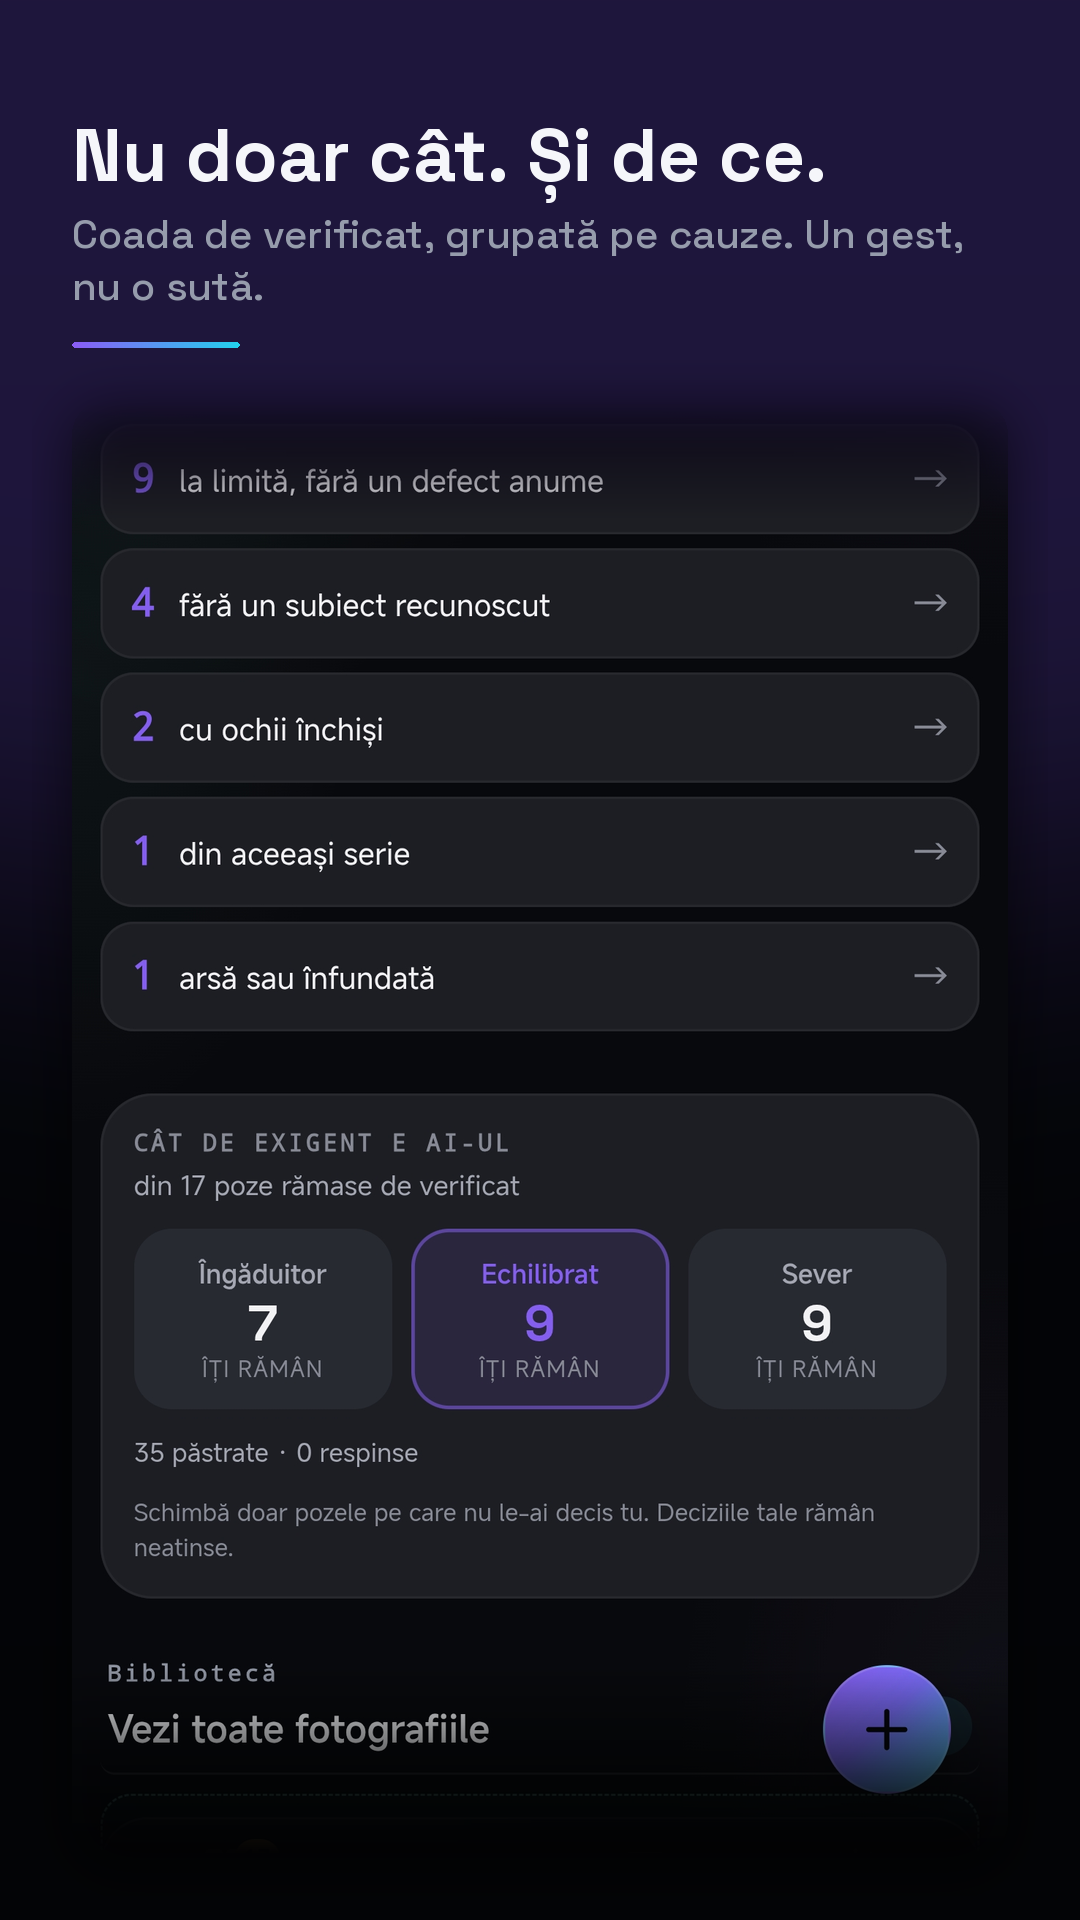
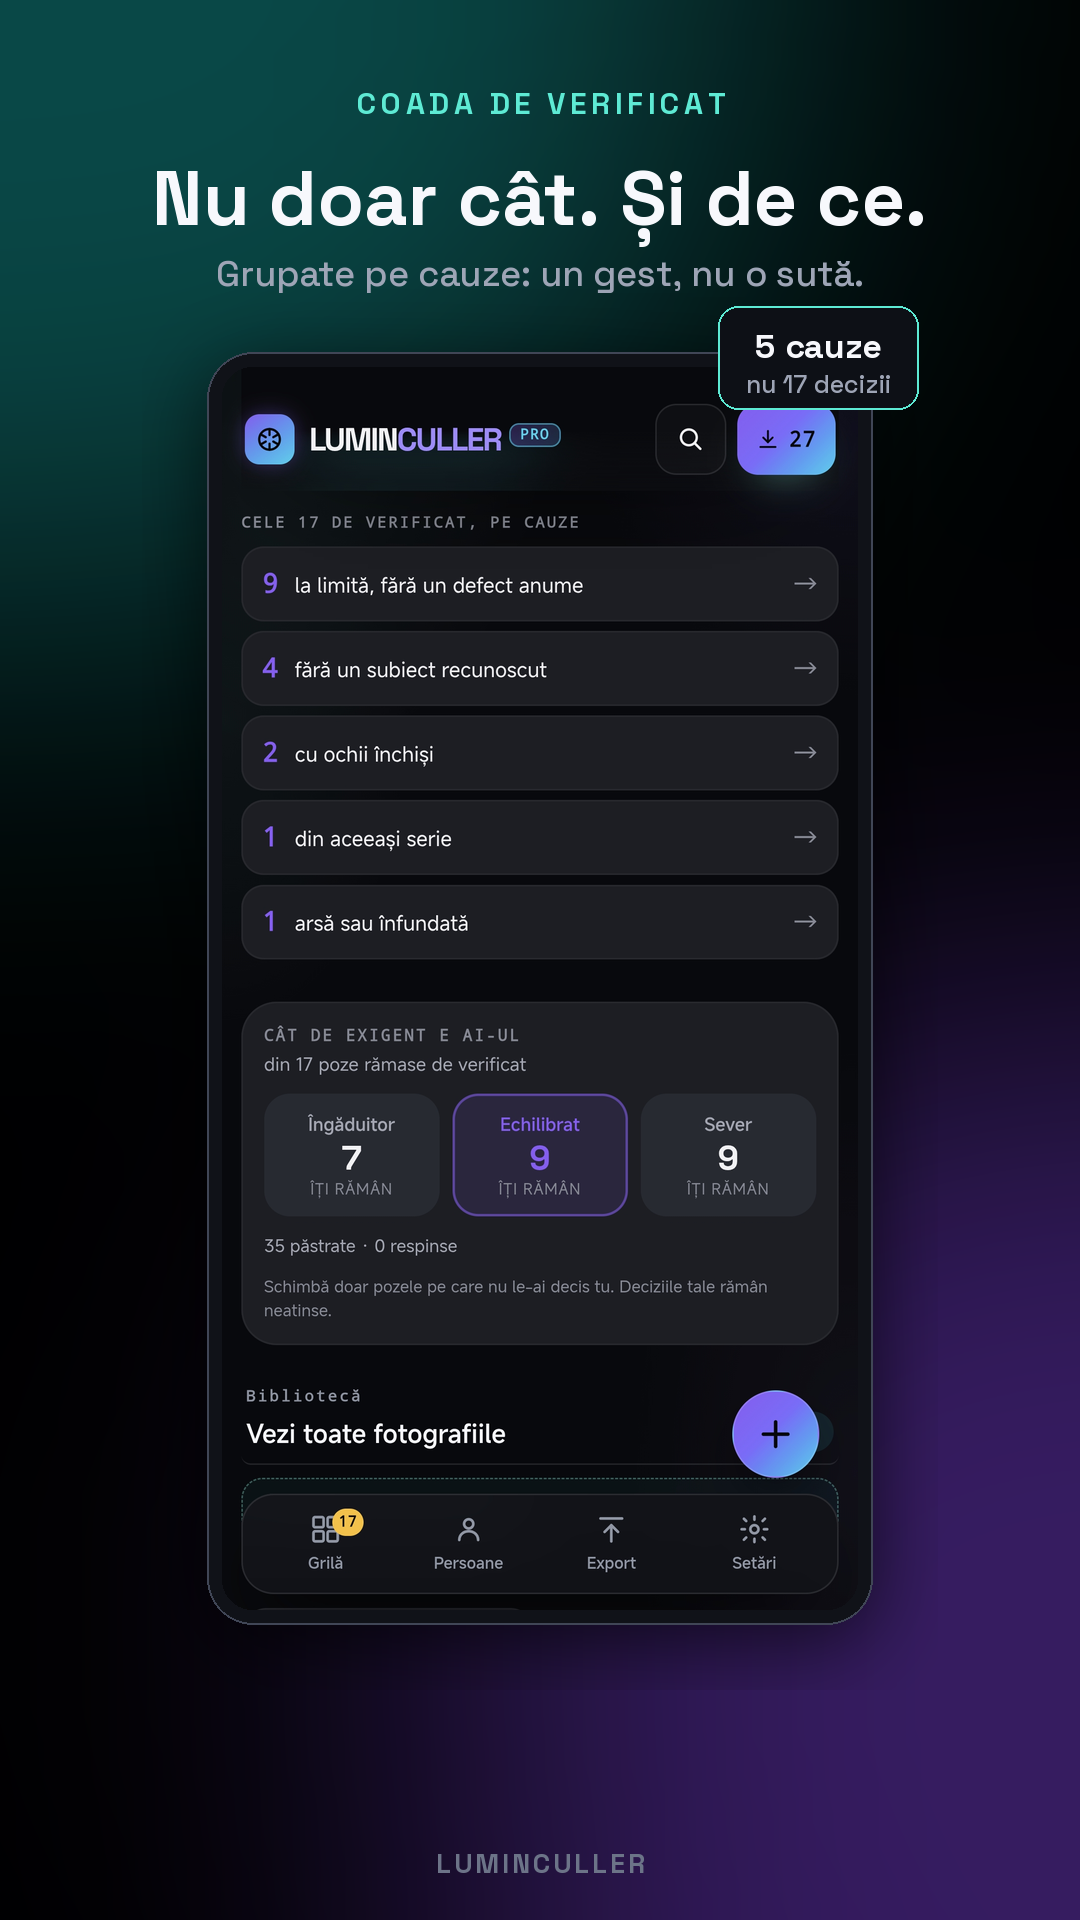
Capturi de magazin: ramă de telefon, nu o captură pusă pe fundal
Prima variantă punea captura tăiată direct pe fundal, cu titlul aliniat la
stânga. Comparată cu setul vechi, arăta clar mai slab — și diferența nu era
gustul, erau patru lucruri concrete:

1. RAMA DE TELEFON. Fără ea, imaginea citește ca o captură de ecran; cu ea,
   citește ca un produs. E cea mai mare diferență dintre cele două seturi.
2. CAPTURA ÎNTREAGĂ. Înălțimea ramei se calculează DIN raportul sursei, deci
   nu se mai taie nimic — și dispare nevoia de stingere a marginilor, care
   era o cârpeală pentru o problemă pe care n-ar fi trebuit s-o avem.
3. TEXT CENTRAT, cu o etichetă mică deasupra titlului: eticheta dă structura,
   titlul dă promisiunea, subtitlul dă dovada.
4. LUMINĂ COLORATĂ în fundal, nu un degrade plat — turcoaz sus-stânga,
   violet jos-dreapta, aceleași două culori ca degradeul aplicației.

Plus o insignă care iese peste ramă pe trei dintre ele, cu cifra care
contează ("12 poze decise în 83%", "0 upload"). Duce ochiul exact acolo.

Bara de navigare a Android-ului se detectează acum automat, nu se taie cu un
număr fix: înălțimea ei diferă de la captură la captură (gesturi vs. trei
butoane). Rămasă în ramă, apărea ca o dungă albă lată sub aplicație —
singurul lucru din toată imaginea care striga "captură de ecran", exact ce
încearcă rama să ascundă. Se caută de jos în sus prima linie care nu mai e
deschisă la culoare; aplicația e întunecată peste tot, deci granița e netă.

Claude-Session: https://claude.ai/code/session_0155ruC6WPAMZsMAjxbzwDqH

diff --git a/scripts/store-screenshots.py b/scripts/store-screenshots.py
@@ -1,60 +1,115 @@
 """
-Compune capturile pentru fisa Play Store.
+Compune capturile pentru fișa Play Store.
 
-Ce face si de ce:
- - taie bara de stare (ceas, baterie, WhatsApp) si bara de sistem de jos.
-   Cine deruleaza prin magazin nu trebuie sa vada ca aveai 33% baterie;
- - pune captura pe un fundal de brand, cu acelasi degrade ca aplicatia;
- - scrie DEASUPRA un titlu scurt. Titlul e ce retine omul — captura doar
-   dovedeste ca e adevarat. Doua secunde de derulat, nu un paragraf de citit;
- - foloseste fontul real al aplicatiei (Space Grotesk), nu unul generic.
+DE CE ARATA ASA, si nu ca o captura pusa pe un fundal. Prima varianta punea
+captura taiata direct pe fundal, cu titlul aliniat la stanga. Utilizatorul a
+comparat-o cu setul vechi si a avut dreptate: acela arata profesional, asta nu.
+Diferenta nu era gustul, erau patru lucruri concrete:
+
+ 1. RAMA DE TELEFON. Fara ea, imaginea citeste ca o captura de ecran. Cu ea,
+    citeste ca un PRODUS. E cea mai mare diferenta dintre cele doua seturi.
+ 2. CAPTURA INTREAGA. Inaltimea ramei se calculeaza DIN raportul sursei, deci
+    nu se mai taie nimic si nu mai e nevoie de nicio stingere a marginilor —
+    care era o carpeala pentru o problema pe care n-ar fi trebuit s-o avem.
+ 3. TEXT CENTRAT, cu o eticheta mica deasupra titlului. Eticheta da structura
+    ("CONFIDENTIALITATE"), titlul da promisiunea, subtitlul da dovada.
+ 4. LUMINA COLORATA in fundal, nu un degrade plat: turcoaz sus-stanga, violet
+    jos-dreapta. Aceleasi doua culori ca degradeul aplicatiei.
+
+Ruleaza:  python3 scripts/store-screenshots.py
+
+Fontul: Space Grotesk (acelasi ca aplicatia) nu exista ca TTF in proiect, doar
+ca subseturi woff2 pentru web — iar subsetul `latin` NU are ă/ș/ț, si
+`latin-ext` nu are â/î. Amandoua sunt necesare pentru romana, deci se
+instantiaza fiecare la o greutate fixa si se fuzioneaza (fuziunea directa a
+doua fonturi VARIABILE esueaza). Vezi `pregateste_fonturile()` mai jos.
+
+Sursele sunt capturi BRUTE de pe telefon. Doua reguli invatate pe pielea
+noastra: nicio captura cu adnotari desenate peste ea, si nicio captura cu
+persoane care n-au dat acordul sa apara intr-un magazin mondial.
 """
-from PIL import Image, ImageDraw, ImageFont, ImageFilter
 import os
+from PIL import Image, ImageDraw, ImageFont, ImageFilter
 
 W, H = 1080, 1920
-SRC = '/root/.claude/uploads/09c12659-4c3c-54cc-87dd-ec28ff8ac38b'
+SRC = os.environ.get('LUMIN_SHOTS_SRC', '/root/.claude/uploads/09c12659-4c3c-54cc-87dd-ec28ff8ac38b')
 OUT = 'store/screenshots-new'
-BOLD = '/tmp/fonts/SG-bold.ttf'
-MED = '/tmp/fonts/SG-med.ttf'
+FONTS = '/tmp/fonts'
 
-# Culorile aplicatiei (src/styles.css)
-BG_TOP = (11, 14, 22)
-BG_BOT = (7, 9, 15)
-ACCENT = (139, 92, 246)
-ACCENT2 = (34, 211, 238)
-TEXT = (245, 246, 250)
-SUB = (150, 156, 172)
+TEXT = (247, 248, 252)
+SUB = (158, 165, 182)
+TEAL = (94, 234, 212)
+VIOLET = (139, 92, 246)
 
-# Cat se taie din sursa (1280x2772): bara de stare sus, bara de sistem jos.
+# Bara de stare de sus are inaltime fixa pe acelasi telefon.
 CROP_TOP = 118
-CROP_BOT = 130
+
+
+def taie_bara_de_sistem(im):
+    """Taie bara de navigare a Android-ului din josul capturii.
+
+    Nu cu un numar fix: inaltimea ei difera de la captura la captura (gesturi
+    vs. trei butoane, iar unele ecrane o deseneaza peste continut). Ramasa in
+    rama de telefon, apare ca o dunga alba lata sub aplicatie — singurul lucru
+    din toata imaginea care striga "captura de ecran", exact ce incearca rama
+    sa ascunda.
+
+    Cautam de jos in sus prima linie care NU mai e deschisa la culoare.
+    Aplicatia e intunecata peste tot, deci granita e neta si nu are cum sa
+    prinda din greseala continut real.
+    """
+    mic = im.convert('L').resize((1, im.height))
+    px = mic.load()
+    y = im.height - 1
+    while y > im.height - 320 and px[0, y] > 110:
+        y -= 1
+    return im.crop((0, CROP_TOP, im.width, y + 1))
+
+
+def pregateste_fonturile():
+    """Space Grotesk cu diacritice romanesti — vezi antetul fisierului."""
+    bold, med = f'{FONTS}/SG-bold.ttf', f'{FONTS}/SG-med.ttf'
+    if os.path.exists(bold) and os.path.exists(med):
+        return bold, med
+    from fontTools.ttLib import TTFont
+    from fontTools.varLib import instancer
+    from fontTools.merge import Merger
+    os.makedirs(FONTS, exist_ok=True)
+    src = 'node_modules/@fontsource-variable/space-grotesk/files'
+    for name in ['latin', 'latin-ext']:
+        f = TTFont(f'{src}/space-grotesk-{name}-wght-normal.woff2')
+        f.flavor = None
+        f.save(f'{FONTS}/{name}.ttf')
+        for w, tag in [(700, 'bold'), (500, 'med')]:
+            instancer.instantiateVariableFont(TTFont(f'{FONTS}/{name}.ttf'), {'wght': w}) \
+                .save(f'{FONTS}/{name}-{tag}.ttf')
+    for tag in ['bold', 'med']:
+        Merger().merge([f'{FONTS}/latin-{tag}.ttf', f'{FONTS}/latin-ext-{tag}.ttf']) \
+            .save(f'{FONTS}/SG-{tag}.ttf')
+    return bold, med
 
 
 def fundal():
-    """Degrade vertical + o aura de accent sus, ca in aplicatie."""
-    bg = Image.new('RGB', (W, H))
-    d = ImageDraw.Draw(bg)
-    for y in range(H):
-        t = y / H
-        d.line([(0, y), (W, y)], fill=tuple(int(BG_TOP[i] + (BG_BOT[i] - BG_TOP[i]) * t) for i in range(3)))
-    aura = Image.new('RGB', (W, H), (0, 0, 0))
-    ad = ImageDraw.Draw(aura)
-    ad.ellipse([-W // 3, -H // 4, W + W // 3, H // 2], fill=(48, 30, 92))
-    aura = aura.filter(ImageFilter.GaussianBlur(160))
-    return Image.blend(bg, Image.blend(bg, aura, 0.55), 1.0)
+    """Doua lumini colorate peste un fond aproape negru — turcoaz sus-stanga,
+    violet jos-dreapta. Aceleasi doua culori ca degradeul aplicatiei."""
+    bg = Image.new('RGB', (W, H), (8, 10, 16))
+    lum = Image.new('RGB', (W, H), (0, 0, 0))
+    d = ImageDraw.Draw(lum)
+    d.ellipse([-460, -560, 760, 620], fill=(10, 78, 76))
+    d.ellipse([420, H - 900, W + 520, H + 260], fill=(58, 30, 104))
+    lum = lum.filter(ImageFilter.GaussianBlur(210))
+    return Image.blend(bg, lum, 0.92)
 
 
 def rotunjeste(im, r):
-    masca = Image.new('L', im.size, 0)
-    ImageDraw.Draw(masca).rounded_rectangle([0, 0, im.size[0] - 1, im.size[1] - 1], r, fill=255)
+    m = Image.new('L', im.size, 0)
+    ImageDraw.Draw(m).rounded_rectangle([0, 0, im.size[0] - 1, im.size[1] - 1], r, fill=255)
     out = im.convert('RGBA')
-    out.putalpha(masca)
+    out.putalpha(m)
     return out
 
 
 def randuri(draw, text, font, latime):
-    """Rupe titlul pe randuri care incap, fara sa taie cuvinte."""
     cuvinte, linii, curent = text.split(), [], ''
     for c in cuvinte:
         prob = (curent + ' ' + c).strip()
@@ -69,68 +124,81 @@ def randuri(draw, text, font, latime):
     return linii
 
 
-def compune(sursa, titlu, subtitlu, nume, offset_y=0):
+def centrat(d, y, text, font, fill, spatiere=0):
+    lat = d.textlength(text, font=font) + spatiere * max(0, len(text) - 1)
+    x = (W - lat) / 2
+    if spatiere:
+        for ch in text:
+            d.text((x, y), ch, font=font, fill=fill)
+            x += d.textlength(ch, font=font) + spatiere
+    else:
+        d.text((x, y), text, font=font, fill=fill)
+
+
+def compune(sursa, eticheta, titlu, subtitlu, nume, insigna=None):
+    bold, med = pregateste_fonturile()
     bg = fundal()
     d = ImageDraw.Draw(bg)
+    f_et = ImageFont.truetype(bold, 30)
+    f_ti = ImageFont.truetype(bold, 76)
+    f_su = ImageFont.truetype(med, 36)
 
-    f_titlu = ImageFont.truetype(BOLD, 74)
-    f_sub = ImageFont.truetype(MED, 40)
+    y = 84
+    centrat(d, y, eticheta.upper(), f_et, TEAL, spatiere=4.5)
+    y += 66
+    linii = randuri(d, titlu, f_ti, W - 130)
+    for linie in linii:
+        centrat(d, y, linie, f_ti, TEXT)
+        y += 86
+    y += 14
+    for linie in randuri(d, subtitlu, f_su, W - 150):
+        centrat(d, y, linie, f_su, SUB)
+        y += 48
 
-    marja = 72
-    y = 108
-    for linie in randuri(d, titlu, f_titlu, W - marja * 2):
-        d.text((marja, y), linie, font=f_titlu, fill=TEXT)
-        y += 88
-    if subtitlu:
-        y += 12
-        for linie in randuri(d, subtitlu, f_sub, W - marja * 2):
-            d.text((marja, y), linie, font=f_sub, fill=SUB)
-            y += 52
-
-    # Linie subtire de accent sub titlu — acelasi degrade ca butonul principal.
-    y += 30
-    bara = Image.new('RGB', (168, 6))
-    bd = ImageDraw.Draw(bara)
-    for x in range(168):
-        t = x / 168
-        bd.line([(x, 0), (x, 6)], fill=tuple(int(ACCENT[i] + (ACCENT2[i] - ACCENT[i]) * t) for i in range(3)))
-    bg.paste(rotunjeste(bara, 3), (marja, y), rotunjeste(bara, 3))
-    y += 58
-
-    # Captura, taiata de barele de sistem si scalata la latimea disponibila.
+    # ── Telefonul ───────────────────────────────────────────────────────────
     im = Image.open(os.path.join(SRC, sursa)).convert('RGB')
-    im = im.crop((0, CROP_TOP, im.width, im.height - CROP_BOT))
-    lat = W - marja * 2
-    im = im.resize((lat, int(im.height * lat / im.width)), Image.LANCZOS)
-    disp = H - y - 64
-    if im.height > disp:
-        im = im.crop((0, offset_y, im.width, min(im.height, offset_y + disp)))
+    im = taie_bara_de_sistem(im)
 
-    # MARGINEA DE JOS SE STINGE in fundal. Captura e mai inalta decat spatiul
-    # ramas, deci trebuie taiata undeva — iar o taietura neta prin bara de
-    # navigare arata ca o eroare de randare, nu ca un cadru. Stinsa, citeste ca
-    # "ecranul continua", ceea ce si e adevarat.
-    card = rotunjeste(im, 34)
-    alfa = card.split()[3]
-    stins = Image.new('L', card.size, 255)
-    sd = ImageDraw.Draw(stins)
-    # SUS se stinge si el, mai scurt. Captura e taiata la ambele capete, iar o
-    # taietura neta prin antet arata exact ca o eroare de randare — raportat cu
-    # o captura, cu fasia de antet incercuita. Stinsa, marginea citeste ca
-    # "ecranul continua", ceea ce si e adevarat.
-    sus = 120
-    for i in range(sus):
-        sd.line([(0, i), (card.width, i)], fill=int(255 * (i / sus) ** 1.2))
-    inaltime_stins = 190
-    for i in range(inaltime_stins):
-        y_ = card.height - inaltime_stins + i
-        sd.line([(0, y_), (card.width, y_)], fill=int(255 * (1 - i / inaltime_stins) ** 1.4))
-    card.putalpha(Image.composite(stins, Image.new('L', card.size, 0), alfa))
-    umbra = Image.new('RGBA', (card.width + 80, card.height + 80), (0, 0, 0, 0))
-    umbra.paste((0, 0, 0, 150), (40, 52, 40 + card.width, 52 + card.height), alfa)
-    umbra = umbra.filter(ImageFilter.GaussianBlur(26))
-    bg.paste(umbra, (marja - 40, y - 40), umbra)
-    bg.paste(card, (marja, y), card)
+    sus = y + 54
+    disponibil = H - sus - 116          # 116 = loc pentru semnatura de jos
+    rama = 15                            # grosimea ramei negre
+    ecran_lat = 636
+    ecran_inalt = round(ecran_lat * im.height / im.width)
+    if ecran_inalt + rama * 2 > disponibil:      # nu incape: micsoram TOT, nu taiem
+        ecran_inalt = disponibil - rama * 2
+        ecran_lat = round(ecran_inalt * im.width / im.height)
+
+    im = im.resize((ecran_lat, ecran_inalt), Image.LANCZOS)
+    ecran = rotunjeste(im, 30)
+
+    corp = Image.new('RGB', (ecran_lat + rama * 2, ecran_inalt + rama * 2), (16, 18, 24))
+    corp = rotunjeste(corp, 46)
+    ImageDraw.Draw(corp).rounded_rectangle(
+        [0, 0, corp.width - 1, corp.height - 1], 46, outline=(64, 70, 86), width=2)
+    corp.paste(ecran, (rama, rama), ecran)
+
+    x = (W - corp.width) // 2
+    umbra = Image.new('RGBA', (corp.width + 130, corp.height + 130), (0, 0, 0, 0))
+    umbra.paste((0, 0, 0, 165), (65, 82, 65 + corp.width, 82 + corp.height), corp.split()[3])
+    bg.paste(umbra.filter(ImageFilter.GaussianBlur(38)), (x - 65, sus - 65), umbra.filter(ImageFilter.GaussianBlur(38)))
+    bg.paste(corp, (x, sus), corp)
+
+    # Insigna care iese peste rama — duce ochiul exact pe afirmatia care conteaza.
+    if insigna:
+        cap, jos = insigna
+        f_c = ImageFont.truetype(bold, 34)
+        f_j = ImageFont.truetype(med, 25)
+        lat = int(max(d.textlength(cap, font=f_c), d.textlength(jos, font=f_j))) + 56
+        pil = Image.new('RGB', (lat, 104), (13, 16, 22))
+        pd = ImageDraw.Draw(pil)
+        pd.rounded_rectangle([0, 0, lat - 1, 103], 20, outline=TEAL, width=2)
+        pd.text(((lat - pd.textlength(cap, font=f_c)) / 2, 18), cap, font=f_c, fill=TEXT)
+        pd.text(((lat - pd.textlength(jos, font=f_j)) / 2, 62), jos, font=f_j, fill=SUB)
+        pil = rotunjeste(pil, 20)
+        bg.paste(pil, (x + corp.width - lat + 46, sus - 46), pil)
+
+    f_b = ImageFont.truetype(bold, 27)
+    centrat(d, H - 74, 'LUMINCULLER', f_b, (108, 116, 136), spatiere=3)
 
     os.makedirs(OUT, exist_ok=True)
     cale = f'{OUT}/{nume}.png'
@@ -138,47 +206,22 @@ def compune(sursa, titlu, subtitlu, nume, offset_y=0):
     print(cale, bg.size)
 
 
-# ── Cum se refac ────────────────────────────────────────────────────────────
-#
-#   python3 scripts/store-screenshots.py
-#
-# Fontul: Space Grotesk (acelasi ca aplicatia) nu exista ca TTF in proiect, doar
-# ca subseturi woff2 pentru web — iar subsetul `latin` NU are ă/ș/ț, si
-# `latin-ext` nu are â/î. Amandoua sunt necesare pentru romana, deci se
-# instantiaza fiecare la o greutate fixa si se fuzioneaza (fuziunea directa a
-# doua fonturi VARIABILE esueaza):
-#
-#   pip install pillow fonttools brotli
-#   python3 - <<'EOF'
-#   from fontTools.ttLib import TTFont
-#   from fontTools.varLib import instancer
-#   from fontTools.merge import Merger
-#   src = 'node_modules/@fontsource-variable/space-grotesk/files'
-#   for name in ['latin', 'latin-ext']:
-#       f = TTFont(f'{src}/space-grotesk-{name}-wght-normal.woff2'); f.flavor = None
-#       f.save(f'/tmp/fonts/{name}.ttf')
-#       for w, tag in [(700, 'bold'), (500, 'med')]:
-#           st = instancer.instantiateVariableFont(TTFont(f'/tmp/fonts/{name}.ttf'), {'wght': w})
-#           st.save(f'/tmp/fonts/{name}-{tag}.ttf')
-#   for tag in ['bold', 'med']:
-#       Merger().merge([f'/tmp/fonts/latin-{tag}.ttf', f'/tmp/fonts/latin-ext-{tag}.ttf']) \
-#           .save(f'/tmp/fonts/SG-{tag}.ttf')
-#   EOF
-#
-# Sursele sunt capturi BRUTE de pe telefon (1280x2772). Doua reguli invatate pe
-# pielea noastra: nicio captura cu adnotari desenate peste ea, si nicio captura
-# cu persoane care n-au dat acordul sa apara intr-un magazin mondial.
-
 if __name__ == '__main__':
-    compune('25537cf9-image.jpg', 'Un scor pentru fiecare poză',
-            'Import, analiză și sortare — oricâte poze, gratuit.', '01-scoruri', offset_y=300)
-    compune('40e959de-image.jpg', 'Nu doar cât. Și de ce.',
-            'Coada de verificat, grupată pe cauze. Un gest, nu o sută.', '02-cauze', offset_y=240)
-    compune('a5734068-image.jpg', 'Fiecare scor, explicat',
-            'Ce a cântărit pentru, ce împotrivă. Tu confirmi, AI-ul învață.', '03-de-ce', offset_y=560)
-    compune('69016b10-image.jpg', 'Claritate, ochi, zâmbet',
-            'Măsurate pe telefon, arătate pe înțelesul tău.', '04-metrici', offset_y=530)
-    compune('0dc65acc-image.jpg', 'Îți pregătește următoarea decizie',
-            'Tu doar confirmi. Nimic nu se șterge fără acordul tău.', '05-decizie', offset_y=430)
-    compune('3f64d51d-image.jpg', '100% pe telefonul tău',
-            'Fără cont, fără upload, fără reclame.', '06-privat', offset_y=120)
+    compune('25537cf9-image.jpg', 'Triaj cu AI', 'Un scor pentru fiecare poză',
+            'Import, analiză și sortare — oricâte poze, gratuit.',
+            '01-scoruri', insigna=('12 poze', 'decise în 83%'))
+    compune('40e959de-image.jpg', 'Coada de verificat', 'Nu doar cât. Și de ce.',
+            'Grupate pe cauze: un gest, nu o sută.',
+            '02-cauze', insigna=('5 cauze', 'nu 17 decizii'))
+    compune('a5734068-image.jpg', 'Explicabilitate', 'Fiecare scor, explicat',
+            'Ce a cântărit pentru și ce împotrivă. Tu confirmi, AI-ul învață.',
+            '03-de-ce')
+    compune('69016b10-image.jpg', 'Ce măsoară', 'Claritate, ochi, zâmbet',
+            'Măsurate pe telefon, arătate pe înțelesul tău.',
+            '04-metrici')
+    compune('0dc65acc-image.jpg', 'Fluxul de lucru', 'Următoarea decizie, pregătită',
+            'Tu doar confirmi. Nimic nu se șterge fără acordul tău.',
+            '05-decizie')
+    compune('3f64d51d-image.jpg', 'Confidențialitate', 'Nicio poză nu pleacă de pe telefon',
+            'Fără cont, fără upload, fără reclame.',
+            '06-privat', insigna=('0 upload', 'nimic nu pleacă'))
